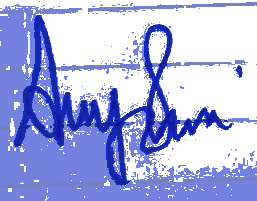
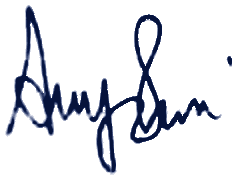
fix(emergency): refine doctor signature extraction with clean transparency and bundle local qrcode library with fallback

diff --git a/public/js/qrcode.min.js b/public/js/qrcode.min.js
@@ -1,0 +1,1 @@
[1 lines of base64/hex data omitted]

diff --git a/resources/views/emergency/medical-report.blade.php b/resources/views/emergency/medical-report.blade.php
@@ -1,4 +1,4 @@
-<!DOCTYPE html>
+ <!DOCTYPE html>
 <html lang="ar" dir="rtl">
 <head>
     <meta charset="UTF-8">
@@ -8,8 +8,8 @@
     <link rel="preconnect" href="https://fonts.googleapis.com">
     <link rel="preconnect" href="https://fonts.gstatic.com" crossorigin>
     <link href="https://fonts.googleapis.com/css2?family=Cairo:wght@400;500;600;700;800;900&display=swap" rel="stylesheet">
-    <!-- QRCode JS Library -->
-    <script src="https://cdn.jsdelivr.net/npm/qrcode@1.5.3/build/qrcode.min.js"></script>
+    <!-- Local QRCode JS Library -->
+    <script src="{{ asset('js/qrcode.min.js') }}"></script>
 
     <style>
         * {
@@ -430,16 +430,17 @@
             font-weight: 600;
         }
         .sig-container {
-            height: 60px;
+            height: 65px;
             display: flex;
             align-items: center;
             justify-content: center;
             margin: 2px 0;
         }
         .sig-container img {
-            max-height: 56px;
-            max-width: 170px;
+            max-height: 60px;
+            max-width: 180px;
             object-fit: contain;
+            mix-blend-mode: multiply;
         }
         .sig-date {
             font-size: 9.5px;
@@ -889,7 +890,9 @@
         <div class="report-footer">
             <!-- QR Code Verification -->
             <div class="qr-section">
-                <canvas class="qr-canvas qr-canvas-{{ $copyKey }}" data-url="{{ $verifyUrl }}" width="80" height="80"></canvas>
+                <div class="qr-box" id="qrcode-{{ $copyKey }}" data-url="{{ $verifyUrl }}" style="width: 80px; height: 80px; margin: 0 auto; display: flex; align-items: center; justify-content: center;">
+                    <img src="https://api.qrserver.com/v1/create-qr-code/?size=150x150&data={{ urlencode($verifyUrl) }}" alt="QR Code" width="80" height="80" style="display: block; width: 80px; height: 80px; object-fit: contain;" />
+                </div>
                 <div class="qr-label">امسح للتحقق الرقمي المعتمد</div>
                 <div style="font-size: 8px; color: #94a3b8; font-weight: 700;">{{ $emergencyId }}</div>
             </div>
@@ -933,20 +936,19 @@
 @endforeach
 
 <script>
-    // Generate QR Codes on canvas
+    // Generate QR Codes via local library
     document.addEventListener('DOMContentLoaded', function () {
         if (typeof QRCode !== 'undefined') {
-            document.querySelectorAll('.qr-canvas').forEach(function(canvas) {
-                var url = canvas.getAttribute('data-url');
-                QRCode.toCanvas(canvas, url, {
+            document.querySelectorAll('.qr-box').forEach(function(box) {
+                var url = box.getAttribute('data-url');
+                box.innerHTML = ''; // replace fallback image with local sharp vector QR code
+                new QRCode(box, {
+                    text: url,
                     width: 80,
-                    margin: 1,
-                    color: {
-                        dark: '#0f766e',
-                        light: '#ffffff'
-                    }
-                }, function (error) {
-                    if (error) console.error(error);
+                    height: 80,
+                    colorDark: '#0f766e',
+                    colorLight: '#ffffff',
+                    correctLevel: QRCode.CorrectLevel.M
                 });
             });
         }

diff --git a/resources/views/emergency/verify-report.blade.php b/resources/views/emergency/verify-report.blade.php
@@ -166,11 +166,12 @@
             margin-bottom: 8px;
         }
         .sig-img {
-            max-height: 55px;
+            max-height: 60px;
             max-width: 180px;
             object-fit: contain;
             margin: 0 auto;
             display: block;
+            mix-blend-mode: multiply;
         }
 
         .verify-footer {
